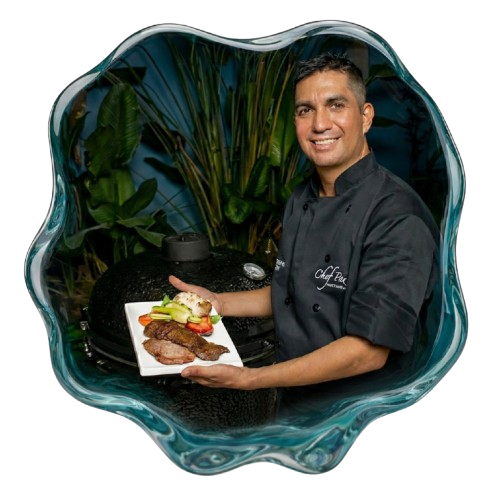
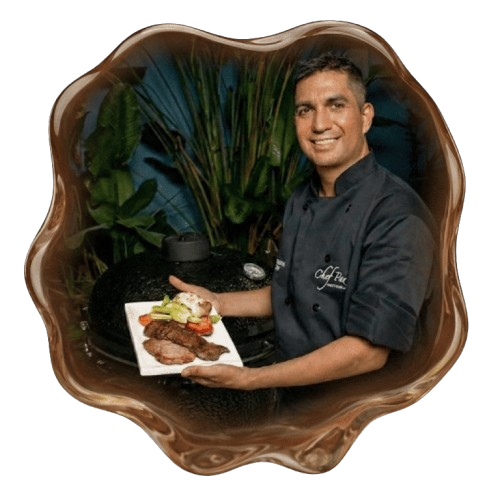
listo para produccion

diff --git a/src/pages/Index.tsx b/src/pages/Index.tsx
@@ -2,7 +2,7 @@ import { Link } from 'react-router-dom';
 import { useLanguage } from '@/contexts/LanguageContext';
 import { motion, useScroll, useTransform } from 'framer-motion';
 import { ChevronDown } from 'lucide-react';
-import { useRef } from 'react';
+import { useRef, useState, useEffect } from 'react';
 import AnimatedSection from '@/components/AnimatedSection';
 import PageTransition from '@/components/PageTransition';
 import TropicalLeaf from '@/components/TropicalLeaf';
@@ -15,15 +15,22 @@ import interior from '../assets/restaurant-interior.jpg';
 import dishes1 from '../assets/dishes-grid-1.jpg';
 import dishes2 from '../assets/dishes-grid-2.jpg';
 import heroDish from '../assets/hero-dish.jpg';
+import timelineInnovacion from '../assets/lineatiempo/Premioalainnovacion2023.png';
+import timelineTacna24 from '../assets/lineatiempo/PeruMuchoGustoTacnaJulio2024.png';
+import timelineSummum from '../assets/lineatiempo/Summun2025.png';
+import timelineLima24 from '../assets/lineatiempo/PeruMuchoGustoLima2024.png';
+import timelineTacna25 from '../assets/lineatiempo/PeruMuchoGustoTacna2025.png';
+import timelineInnovacionAlt from '../assets/lineatiempo/PeruMuchoGustoPremioalainnovacion.png';
+import timelineLima23 from '../assets/lineatiempo/PeruMuchoGustoLima2023.png';
 
 
 const timelineData = [
-  { year: '2023', label: 'month.nov', key: 'timeline.2023.nov', image: heroDish },
-  { year: '2024', label: 'month.jul', key: 'timeline.2024.jul', image: interior },
-  { year: '2024', label: 'month.sep', key: 'timeline.2024.sep', image: dishes1 },
-  { year: '2024', label: 'month.nov', key: 'timeline.2024.nov', image: cocktail },
-  { year: '2025', label: 'month.jul', key: 'timeline.2025.jul', image: dishes2 },
-  { year: '2025', label: 'month.sep', key: 'timeline.2025.sep', image: heroDish },
+  { year: '2023', label: 'month.nov', key: 'timeline.2023.nov', image: timelineInnovacion },
+  { year: '2024', label: 'month.jul', key: 'timeline.2024.jul', image: timelineTacna24 },
+  { year: '2024', label: 'month.sep', key: 'timeline.2024.sep', image: timelineSummum },
+  { year: '2024', label: 'month.nov', key: 'timeline.2024.nov', image: timelineLima24 },
+  { year: '2025', label: 'month.jul', key: 'timeline.2025.jul', image: timelineTacna25 },
+  { year: '2025', label: 'month.sep', key: 'timeline.2025.sep', image: timelineSummum },
   { year: '2025', label: 'month.dec', key: 'timeline.2025.dic.loreto', image: amazoniaBg },
   { year: '2025', label: 'month.dec', key: 'timeline.2025.dic.tenedores', image: interior },
 ];
@@ -33,6 +40,35 @@ const timelineData = [
 
 const Index = () => {
   const { t } = useLanguage();
+  const [currentIndex, setCurrentIndex] = useState(0);
+  const [itemsPerView, setItemsPerView] = useState(2);
+
+  useEffect(() => {
+    const handleResize = () => {
+      if (window.innerWidth < 1024) {
+        setItemsPerView(1);
+      } else {
+        setItemsPerView(2);
+      }
+    };
+    handleResize();
+    window.addEventListener('resize', handleResize);
+    return () => window.removeEventListener('resize', handleResize);
+  }, []);
+
+  const totalSlides = Math.ceil(timelineData.length / itemsPerView);
+
+  const nextSlide = () => {
+    setCurrentIndex((prev) => (prev + 1) % totalSlides);
+  };
+
+  const prevSlide = () => {
+    setCurrentIndex((prev) => (prev - 1 + totalSlides) % totalSlides);
+  };
+
+  const goToSlide = (index: number) => {
+    setCurrentIndex(index);
+  };
 
   // Parallax for hero
   const heroRef = useRef(null);
@@ -216,61 +252,96 @@ const Index = () => {
               </h2>
             </AnimatedSection>
 
-            <div className="relative overflow-hidden group">
-              {/* Infinite Horizontal Scroll Container */}
-              <motion.div
-                className="flex gap-20 md:gap-32 px-4 whitespace-nowrap"
-                animate={{
-                  x: [0, "-50%"],
-                }}
-                transition={{
-                  duration: 60,
-                  repeat: Infinity,
-                  ease: "linear"
-                }}
-                whileHover={{ animationPlayState: 'paused' }}
-              >
-                {/* Double the data for seamless infinite loop */}
-                {[...timelineData, ...timelineData].map((item, i) => (
-                  <div key={i} className="flex flex-col w-[300px] md:w-[450px] lg:w-[550px] flex-shrink-0">
-                    {/* Year at the top */}
-                    <span className="font-sans font-bold text-6xl md:text-7xl lg:text-8xl text-white/20 mb-6 tracking-tighter">
-                      {item.year}
-                    </span>
+            <div className="relative group">
+              {/* Carousel Container */}
+              <div className="overflow-hidden">
+                <motion.div
+                  className="flex transition-transform duration-700 ease-in-out"
+                  animate={{
+                    x: `-${currentIndex * 100}%`,
+                  }}
+                >
+                  {/* Group items by itemsPerView */}
+                  {Array.from({ length: totalSlides }).map((_, slideIndex) => (
+                    <div key={slideIndex} className="flex min-w-full gap-8 md:gap-12 lg:gap-16 px-4">
+                      {timelineData
+                        .slice(slideIndex * itemsPerView, slideIndex * itemsPerView + itemsPerView)
+                        .map((item, i) => (
+                          <div
+                            key={i}
+                            className="flex flex-col md:flex-row items-center md:items-start gap-8 md:gap-10 flex-1 min-w-0 group/item"
+                          >
+                            {/* Vertical Image Frame */}
+                            <div className="w-full md:w-72 lg:w-80 h-[450px] md:h-[500px] flex-shrink-0 border border-white/20 p-1.5 bg-black/40 backdrop-blur-sm shadow-2xl relative overflow-hidden group-hover/item:border-primary/50 transition-all duration-700">
+                              <img
+                                src={item.image}
+                                alt=""
+                                className="w-full h-full object-cover grayscale opacity-60 group-hover/item:grayscale-0 group-hover/item:opacity-100 group-hover/item:scale-105 transition-all duration-1000"
+                              />
+                              <div className="absolute inset-0 bg-gradient-to-t from-black/40 via-transparent to-transparent opacity-60" />
+                            </div>
 
-                    {/* Image Frame and Description side-by-side */}
-                    <div className="flex items-start gap-6 group/item">
-                      <div className="w-40 h-28 md:w-52 md:h-36 flex-shrink-0 border border-white/30 p-1 bg-black/40 backdrop-blur-sm shadow-xl relative overflow-hidden">
-                        <img
-                          src={item.image}
-                          alt=""
-                          className="w-full h-full object-cover grayscale opacity-60 group-hover/item:grayscale-0 group-hover/item:opacity-100 transition-all duration-700"
-                        />
-                      </div>
-                      <div className="flex-1 pt-1 whitespace-normal">
-                        <span className="font-sans text-base text-primary/80 font-bold block mb-2 uppercase tracking-widest">
-                          {t(item.label)}
-                        </span>
-                        <p className="font-sans-body text-background/80 text-sm md:text-base lg:text-lg leading-relaxed line-clamp-4">
-                          {t(item.key)}
-                        </p>
-                      </div>
+                            {/* Content Section */}
+                            <div className="flex-1 text-center md:text-left pt-2">
+                              <div className="flex flex-col gap-1 mb-6">
+                                <span className="font-sans font-black text-6xl md:text-7xl lg:text-8xl text-white/5 tracking-tighter group-hover/item:text-primary/10 transition-colors duration-700 block leading-none">
+                                  {item.year}
+                                </span>
+                                <span className="font-sans text-lg md:text-xl text-primary font-bold uppercase tracking-[0.3em]">
+                                  {t(item.label)}
+                                </span>
+                              </div>
+
+                              <div className="h-[2px] w-12 bg-primary/30 mb-6 mx-auto md:mx-0 group-hover/item:w-24 transition-all duration-700" />
+
+                              <p className="font-sans-body text-background/80 text-base md:text-lg lg:text-xl leading-relaxed lg:leading-loose">
+                                {t(item.key)}
+                              </p>
+                            </div>
+                          </div>
+                        ))}
                     </div>
-                  </div>
-                ))}
-              </motion.div>
+                  ))}
+                </motion.div>
+              </div>
+
+              {/* Navigation Arrows */}
+              <button
+                onClick={prevSlide}
+                className="absolute left-0 top-1/2 -translate-y-1/2 -translate-x-12 lg:-translate-x-20 z-20 w-14 h-14 flex items-center justify-center rounded-full bg-white/5 border border-white/10 text-white hover:bg-primary hover:border-primary hover:text-white transition-all duration-300 opacity-0 group-hover:opacity-100 hidden xl:flex"
+              >
+                <ChevronDown className="rotate-90" size={28} />
+              </button>
+              <button
+                onClick={nextSlide}
+                className="absolute right-0 top-1/2 -translate-y-1/2 translate-x-12 lg:translate-x-20 z-20 w-14 h-14 flex items-center justify-center rounded-full bg-white/5 border border-white/10 text-white hover:bg-primary hover:border-primary hover:text-white transition-all duration-300 opacity-0 group-hover:opacity-100 hidden xl:flex"
+              >
+                <ChevronDown className="-rotate-90" size={28} />
+              </button>
             </div>
 
-            {/* Progress Line at bottom (as seen in reference) */}
-            <div className="mt-12 relative w-full h-[1px] bg-white/20">
-              <div className="absolute inset-0 flex justify-between px-6 -translate-y-1/2">
+            {/* Individual Item Dots (Guide points) */}
+            <div className="mt-24 relative w-full h-[1px] bg-white/10 max-w-5xl mx-auto">
+              <div className="absolute inset-0 flex justify-between px-2 md:px-0 -translate-y-1/2">
                 {timelineData.map((_, i) => (
-                  <div
+                  <button
                     key={i}
-                    className="w-4 h-4 rounded-full bg-black border border-white/60 z-10 group cursor-pointer hover:border-white transition-colors flex items-center justify-center"
+                    onClick={() => {
+                      const slideIdx = Math.floor(i / itemsPerView);
+                      goToSlide(slideIdx);
+                    }}
+                    className="relative group px-1"
                   >
-                    <div className="w-1.5 h-1.5 rounded-full bg-white/20 group-hover:bg-white transition-colors" />
-                  </div>
+                    <div className={`w-3 h-3 rounded-full border transition-all duration-700 flex items-center justify-center ${Math.floor(i / itemsPerView) === currentIndex
+                        ? "bg-primary border-primary scale-150 rotate-45"
+                        : "bg-black border-white/30 group-hover:border-white group-hover:scale-110"
+                      }`}>
+                      <div className={`w-1 h-1 rounded-full ${Math.floor(i / itemsPerView) === currentIndex ? "bg-white" : "bg-white/20"
+                        }`} />
+                    </div>
+
+                    {/* Tooltip or small highlight on hover could go here */}
+                  </button>
                 ))}
               </div>
             </div>

diff --git a/src/components/TestimonialsSection.tsx b/src/components/TestimonialsSection.tsx
@@ -2,23 +2,25 @@ import { useLanguage } from '@/contexts/LanguageContext';
 import { motion } from 'framer-motion';
 import { Star } from 'lucide-react';
 import AnimatedSection from './AnimatedSection';
-import testimonioImg from '@/assets/testimonio.png';
+import pedroImg from '@/assets/testimonio/Pedro_Miguel_Schiaffino.png';
+import georgeImg from '@/assets/testimonio/George_Forsyth.png';
+import alondraImg from '@/assets/testimonio/alondragarcia.png';
 
 const testimonials = [
   {
     key: 'testimonials.p1',
-    blobPath: "M63.5,-52.7C77.4,-38.3,80.4,-11.2,74.1,11.5C67.8,34.2,52.1,52.4,32.7,61.9C13.2,71.4,-10.1,72.1,-30.9,64C-51.7,55.8,-69.9,38.8,-75.7,18.4C-81.5,-2.1,-74.8,-25.9,-60.1,-40.6C-45.4,-55.3,-22.7,-60.9,2.8,-64.3C28.3,-67.7,56.6,-68.8,63.5,-52.7Z",
-    morphPath: "M60.1,-63.3C72.6,-53.4,73.8,-29.4,70.5,-10.2C67.2,9,59.3,23.3,47.9,34C36.6,44.8,21.7,51.9,4.4,56.4C-12.9,60.8,-32.7,62.6,-45.5,54.2C-58.2,45.8,-64.1,27.1,-63.9,10.6C-63.7,-5.8,-57.4,-19.9,-47.9,-33C-38.4,-46.1,-25.7,-58.3,-9.6,-61.8C6.6,-65.4,22.1,-60.4,40.1,-60.8C58.1,-61.2,78.5,-66.9,60.1,-63.3Z"
+    image: pedroImg,
+    className: "scale-100"
   },
   {
     key: 'testimonials.p2',
-    blobPath: "M55.2,-64.3C68.9,-54.6,75.3,-34.5,76.1,-15C76.9,4.4,72.1,23.1,61.8,37.3C51.5,51.5,35.7,61.1,18.8,65.3C1.9,69.5,-16.1,68.2,-31.2,60.9C-46.3,53.5,-58.6,40.1,-64.8,24.6C-71,9,-71.2,-8.7,-65.2,-24.1C-59.2,-39.5,-47,-52.7,-33,-62.3C-19.1,-71.9,-3.3,-77.9,11.9,-75.4C27,-72.9,41.5,-73.9,55.2,-64.3Z",
-    morphPath: "M51.9,-63.1C65,-51.1,70.6,-30.1,69.6,-11.2C68.6,7.6,60.9,24.4,49,36.5C37.1,48.6,21,56.1,3.4,57.1C-14.2,58.1,-33.3,52.6,-45.6,40.8C-57.9,29,-63.4,11,-61.8,-6C-60.1,-23,-51.2,-39,-38.3,-51.3C-25.5,-63.7,-8.7,-72.4,10.1,-73.3C28.8,-74.3,45.6,-67.4,51.9,-63.1Z"
+    image: georgeImg,
+    className: "scale-[1.35] md:scale-[1.4]"
   },
   {
     key: 'testimonials.p3',
-    blobPath: "M56.4,-67.2C71.3,-58.4,80.5,-40.2,82.3,-22.1C84.1,-4,78.6,14,69.3,29.3C60,44.6,47,57.2,31.7,64.3C16.4,71.4,-1.2,72.9,-18.2,69.1C-35.3,65.3,-51.8,56.1,-62.7,42.4C-73.6,28.6,-78.9,10.3,-77.4,-7.3C-75.9,-24.8,-67.6,-41.5,-54.7,-51.5C-41.8,-61.4,-24.2,-64.6,-6.5,-68.4C11.3,-72.2,28.8,-76.6,46.4,-74C64,-71.3,71.3,-61.6,56.4,-67.2Z",
-    morphPath: "M45.7,-62.1C58.8,-51.4,66,-33.4,66.8,-15.8C67.6,1.8,61.9,19.1,51.4,33.1C40.9,47.1,25.6,57.8,8.2,60.9C-9.3,64,-28.9,59.6,-42.9,49.1C-56.9,38.6,-65.4,22,-66.3,4.9C-67.2,-12.3,-60.5,-30,-48.9,-41.9C-37.4,-53.8,-20.9,-59.9,-4.6,-61.4C11.6,-62.8,26.5,-59.6,45.7,-62.1Z"
+    image: alondraImg,
+    className: "scale-[1.2] md:scale-[1.25]"
   },
 ];
 
@@ -66,48 +68,18 @@ const TestimonialsSection = () => {
                     </div>
                   </div>
 
-                  {/* Image Container with Solid Organic Blob Background Identity */}
+                  {/* Image Container - Clean Image Only */}
                   <div className="w-full md:w-1/2 flex justify-center items-center">
                     <div className="relative w-[280px] h-[280px] md:w-[420px] md:h-[420px] flex items-center justify-center group">
-
-                      {/* REFINED SOLID BLOB BACKGROUND - 'Tray' Platform Effect */}
-                      <div className="absolute inset-0 z-0 pointer-events-none scale-[1.2]">
-                        <svg viewBox="0 0 200 200" xmlns="http://www.w3.org/2000/svg" className="w-full h-full filter drop-shadow-[0_25px_50px_rgba(0,0,0,0.5)]">
-                          <defs>
-                            {/* Refined Beige / Rose Gold Highlight */}
-                            <linearGradient id="glossyHighlight" x1="0%" y1="0%" x2="100%" y2="100%">
-                              <stop offset="0%" stopColor="#F5E6D3" stopOpacity="0.3" />
-                              <stop offset="50%" stopColor="#623E27" stopOpacity="0" />
-                            </linearGradient>
-                          </defs>
-
-                          {/* The Main Solid Blob - Static */}
-                          <path
-                            fill="#623E27"
-                            d={testimonial.blobPath}
-                            transform="translate(100 100)"
-                          />
-
-                          {/* Refined Rim Highlight - Static */}
-                          <path
-                            fill="none"
-                            stroke="url(#glossyHighlight)"
-                            strokeWidth="2"
-                            d={testimonial.blobPath}
-                            transform="translate(100 100)"
-                            className="opacity-60"
-                          />
-                        </svg>
-                      </div>
-
-                      {/* Foreground Subject - Perfectly Preserved, Centered inside the 'Tray' */}
                       <motion.div
-                        className="relative z-10 w-[65%] h-[65%] flex items-center justify-center"
+                        className="relative z-10 w-full h-full flex items-center justify-center"
+                        whileHover={{ scale: 1.05 }}
+                        transition={{ duration: 0.6, ease: [0.16, 1, 0.3, 1] }}
                       >
                         <img
-                          src={testimonioImg}
+                          src={testimonial.image}
                           alt={t(`${testimonial.key}.author`)}
-                          className="w-full h-full object-contain filter drop-shadow-[0_20px_40px_rgba(0,0,0,0.4)]"
+                          className={`w-full h-full object-contain filter drop-shadow-[0_20px_40px_rgba(0,0,0,0.2)] transition-transform duration-700 ${testimonial.className || ''}`}
                         />
                       </motion.div>
                     </div>

diff --git a/src/pages/Restaurante.tsx b/src/pages/Restaurante.tsx
@@ -4,16 +4,18 @@ import PageTransition from '@/components/PageTransition';
 import { Clock, Phone, Instagram, Facebook, Mail, Download } from 'lucide-react';
 import cartaPdf from '@/assets/CartaChefPaz.pdf';
 import restaurantInterior from '@/assets/images/fondo.png';
-import dishesGrid1 from '@/assets/restaurante/dishes-grid-1.jpg';
-import heroDish from '@/assets/restaurante/carta2.png';
-import cocktail from '@/assets/restaurante/bebida.png';
-import dishesGrid2 from '@/assets/restaurante/carta1.png';
+
+// Impactful Images Selection
+import paicheImg from '@/assets/restaurante/plato2.png';
+import juanesImg from '@/assets/restaurante/plato7.png';
+import cocktailsImg from '@/assets/restaurante/bebida3.png';
+import cevicheImg from '@/assets/restaurante/cevicheamazonico.jpg';
 
 const menuDishes = [
-  { img: heroDish, name: { es: 'Paiche a la Brasa', en: 'Grilled Paiche' } },
-  { img: dishesGrid1, name: { es: 'Juanes Amazónicos', en: 'Amazonian Juanes' } },
-  { img: cocktail, name: { es: 'Coctelería Exótica', en: 'Exotic Cocktails' } },
-  { img: dishesGrid2, name: { es: 'Ceviche de la Selva', en: 'Jungle Ceviche' } },
+  { img: paicheImg, name: { es: 'Paiche a la Brasa', en: 'Grilled Paiche' } },
+  { img: juanesImg, name: { es: 'Juanes Amazónicos', en: 'Amazonian Juanes' } },
+  { img: cocktailsImg, name: { es: 'Coctelería Exótica', en: 'Exotic Cocktails' } },
+  { img: cevicheImg, name: { es: 'Ceviche de la Selva', en: 'Jungle Ceviche' } },
 ];
 
 const Restaurante = () => {
@@ -50,18 +52,13 @@ const Restaurante = () => {
             <div className="grid grid-cols-1 sm:grid-cols-2 lg:grid-cols-4 gap-6 mb-12">
               {menuDishes.map((dish, i) => (
                 <AnimatedSection key={i} delay={i * 0.1}>
-                  <div className="group overflow-hidden rounded-lg">
+                  <div className="group overflow-hidden rounded-lg shadow-md hover:shadow-xl transition-shadow duration-500">
                     <div className="aspect-square overflow-hidden">
                       <img
                         src={dish.img}
                         alt={dish.name[lang]}
-                        className="w-full h-full object-cover transition-transform duration-500 group-hover:scale-105"
+                        className="w-full h-full object-cover transition-transform duration-[1.2s] group-hover:scale-110"
                       />
-                    </div>
-                    <div className="p-4 bg-card">
-                      <h3 className="font-serif text-lg font-semibold text-card-foreground">
-                        {dish.name[lang]}
-                      </h3>
                     </div>
                   </div>
                 </AnimatedSection>

diff --git a/src/contexts/LanguageContext.tsx b/src/contexts/LanguageContext.tsx
@@ -115,7 +115,7 @@ const translations: Translations = {
   'reserva.premium.cta': { es: 'Confirmar Reserva', en: 'Confirm Reservation' },
   'reserva.paris.hero.title': { es: 'Reserva', en: 'Reservations' },
   'reserva.paris.hero.brand': { es: 'Chef Paz restaurante', en: 'Chef Paz restaurant' },
-  'reserva.paris.hero.cta': { es: 'Réserver une table', en: 'Book a table' },
+  'reserva.paris.hero.cta': { es: 'Reservar una mesa', en: 'Reserve a table' },
   'reserva.paris.next': { es: 'Continuar', en: 'Continue' },
   'reserva.paris.back': { es: 'Atrás', en: 'Back' },
   'reserva.paris.success': { es: '¡Reserva Iniciada!', en: 'Reservation Initiated!' },
